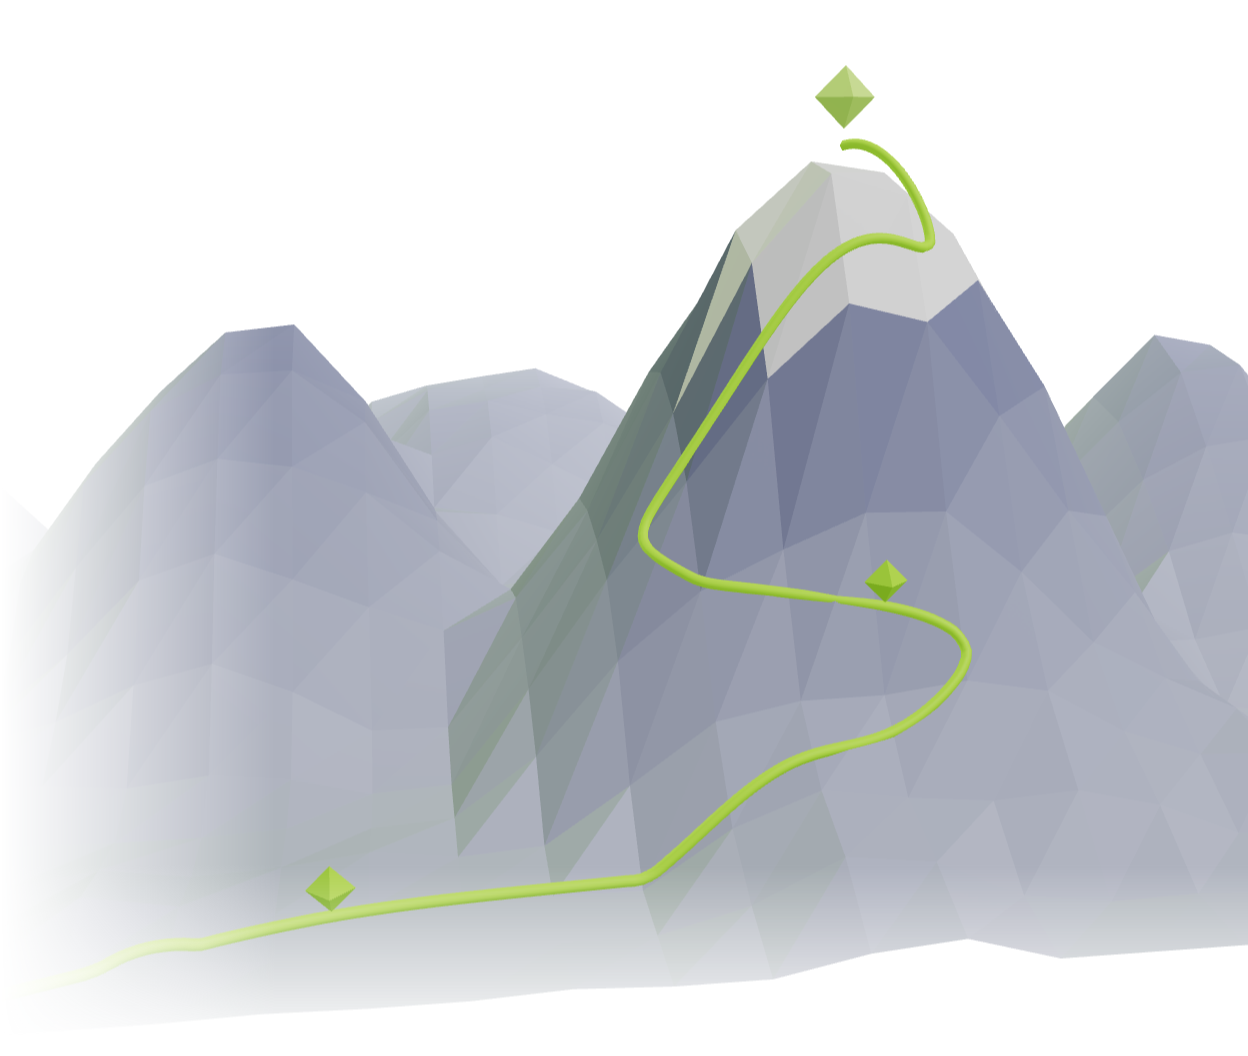
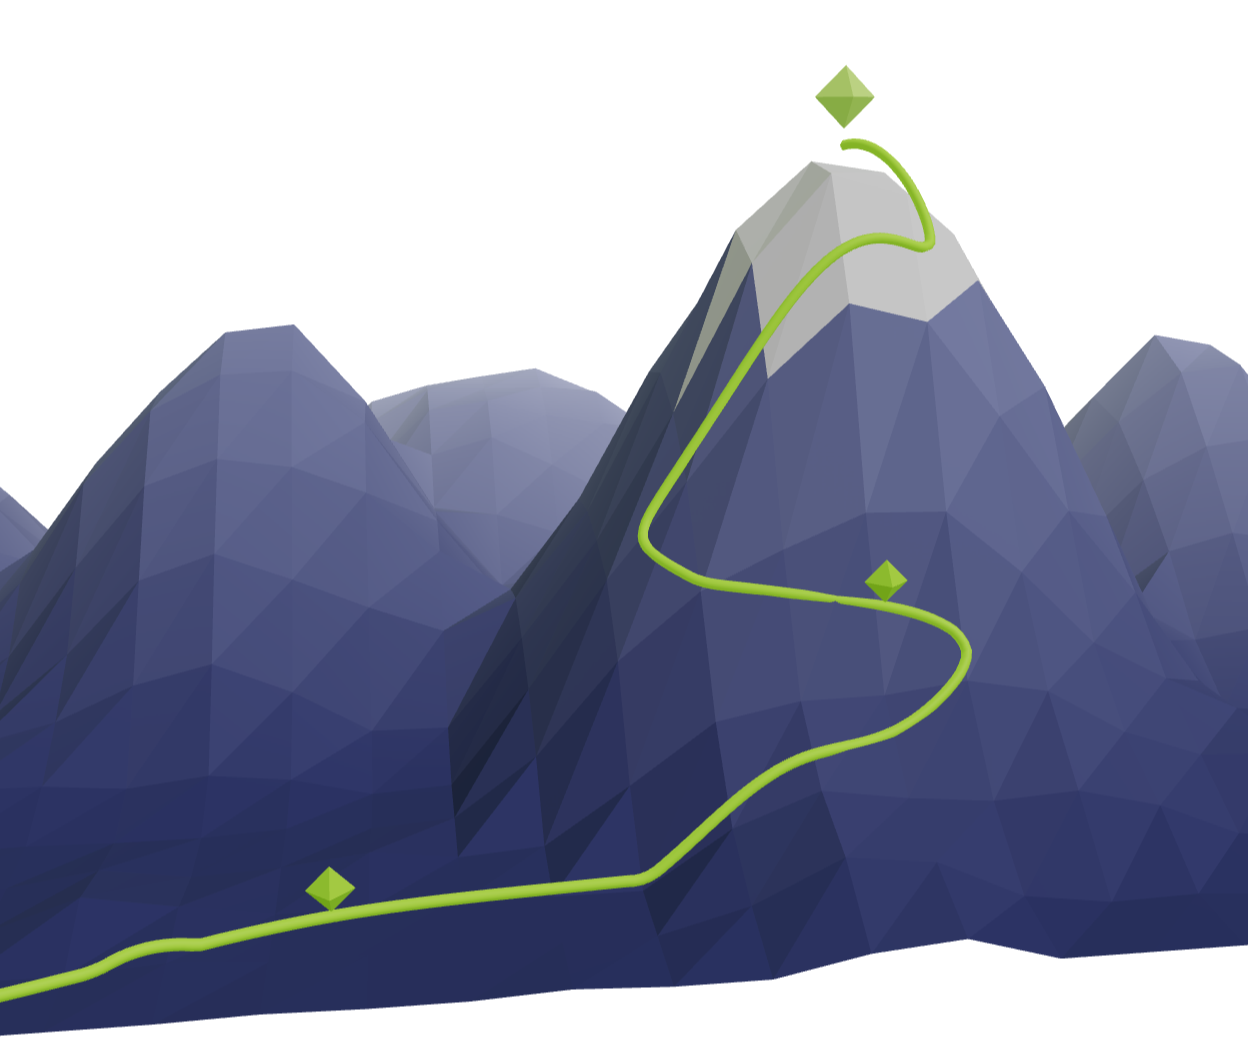
feat(web): fit the 3D hero at every screen size, deepen light mode

diff --git a/web/src/components/hero/HeroScene.tsx b/web/src/components/hero/HeroScene.tsx
@@ -1,7 +1,7 @@
 "use client";
 
-import { Canvas, useFrame } from "@react-three/fiber";
-import { useMemo, useRef } from "react";
+import { Canvas, useFrame, useThree } from "@react-three/fiber";
+import { useLayoutEffect, useMemo, useRef } from "react";
 import * as THREE from "three";
 
 import { useResolvedTheme } from "@/lib/useResolvedTheme";
@@ -161,6 +161,26 @@ function Mountain({ palette }: { palette: Palette }) {
   );
 }
 
+// The framing was tuned for a box about 1.2 times wider than tall. Keep that horizontal
+// view at any size, so a narrow box doesn't crop the peak and a wide one doesn't show the
+// terrain's edges; the vertical view stays within these bounds.
+const HORIZONTAL_FOV = 42;
+const VERTICAL_FOV_RANGE = [30, 62] as const;
+
+function FitCamera() {
+  const get = useThree((state) => state.get);
+  const { width, height } = useThree((state) => state.size);
+  useLayoutEffect(() => {
+    const camera = get().camera;
+    if (!(camera instanceof THREE.PerspectiveCamera) || !width || !height) return;
+    const half = THREE.MathUtils.degToRad(HORIZONTAL_FOV / 2);
+    const vertical = THREE.MathUtils.radToDeg(2 * Math.atan(Math.tan(half) / (width / height)));
+    camera.fov = THREE.MathUtils.clamp(vertical, ...VERTICAL_FOV_RANGE);
+    camera.updateProjectionMatrix();
+  }, [get, width, height]);
+  return null;
+}
+
 export default function HeroScene({ active }: { active: boolean }) {
   const theme = useResolvedTheme();
   // Re-read the tokens whenever the theme changes.
@@ -181,10 +201,12 @@ export default function HeroScene({ active }: { active: boolean }) {
     >
       {/* Distant ridges fade into the sky. */}
       <fog attach="fog" args={[palette.page, 6.5, 13]} />
-      <ambientLight intensity={light ? 0.75 : 0.45} color={palette.snow} />
-      <directionalLight position={[4, 6, 4]} intensity={light ? 1.5 : 1.25} color={palette.snow} />
-      {/* Low evening light from behind the range, tinted by the logo's facets. */}
-      <directionalLight position={[-5, 2.5, -6]} intensity={1.1} color={palette.soft} />
+      <ambientLight intensity={light ? 0.6 : 0.45} color={palette.snow} />
+      <directionalLight position={[4, 6, 4]} intensity={light ? 1.15 : 1.25} color={palette.snow} />
+      {/* Low evening light from behind the range, tinted by the logo's facets. In daylight
+          it stays faint, or the lit faces turn olive. */}
+      <directionalLight position={[-5, 2.5, -6]} intensity={light ? 0.35 : 1.1} color={palette.soft} />
+      <FitCamera />
       <Mountain palette={palette} />
     </Canvas>
   );

diff --git a/web/src/components/hero/HeroVisual.tsx b/web/src/components/hero/HeroVisual.tsx
@@ -59,7 +59,7 @@ export function HeroVisual() {
   return (
     <div
       ref={box}
-      className="hero-fade relative h-full min-h-[18rem] w-full"
+      className="hero-fade relative h-full w-full"
       data-hero-mode={live ? "live" : "static"}
       data-hero-active={live && active ? "true" : "false"}
     >
@@ -71,14 +71,14 @@ export function HeroVisual() {
           <img
             src="/brand/hero-static-dark.png"
             alt=""
-            className="absolute inset-0 h-full w-full object-contain object-bottom light:hidden"
+            className="absolute inset-0 h-full w-full object-cover object-[64%_100%] lg:object-contain lg:object-[100%_100%] light:hidden"
             fetchPriority="high"
           />
           {/* eslint-disable-next-line @next/next/no-img-element */}
           <img
             src="/brand/hero-static-light.png"
             alt=""
-            className="absolute inset-0 hidden h-full w-full object-contain object-bottom light:block"
+            className="absolute inset-0 hidden h-full w-full object-cover object-[64%_100%] lg:object-contain lg:object-[100%_100%] light:block"
           />
         </>
       )}

diff --git a/web/src/styles/tokens.css b/web/src/styles/tokens.css
@@ -17,7 +17,7 @@
   --line: #3d4366;
   --field: #7a80a6;
   --ink: #f1f3ec; /* snow */
-  --muted: #a6abc4; /* haze */
+  --muted: #b3b8cf; /* haze */
 
   --brand: #96d927;
   --brand-strong: #b4e86a;
@@ -76,8 +76,8 @@
   --focus: #3e6c08;
   --shadow-raised: 0 12px 32px rgb(27 30 51 / 0.14);
 
-  --rock-low: #c3c9dd;
-  --rock-high: #8c93b4;
+  --rock-low: #4b5287;
+  --rock-high: #9198c4;
   --snow: #ffffff;
 
   --code-keyword: #3e6c08;
@@ -100,7 +100,7 @@
   /* Scale: 14 / 16 / 20 / 25 / 32 / 48, and 88 only for the landing headline. */
   --step--2: 0.8125rem;
   --step--1: 0.875rem;
-  --step-0: 1rem;
+  --step-0: 1.0625rem;
   --step-1: 1.25rem;
   --step-2: 1.5625rem;
   --step-3: 2rem;

diff --git a/web/src/app/globals.css b/web/src/app/globals.css
@@ -94,10 +94,10 @@
   }
 }
 
-/* The range fades into the sky at the hero's left and bottom edges instead of ending in a wall. */
+/* The range fades into the sky at the hero's sides and bottom instead of ending in a wall. */
 @utility hero-fade {
   mask-image:
-    linear-gradient(to right, transparent, #000 22%),
+    linear-gradient(to right, transparent, #000 22%, #000 90%, transparent),
     linear-gradient(to top, transparent, #000 18%);
   mask-composite: intersect;
 }
